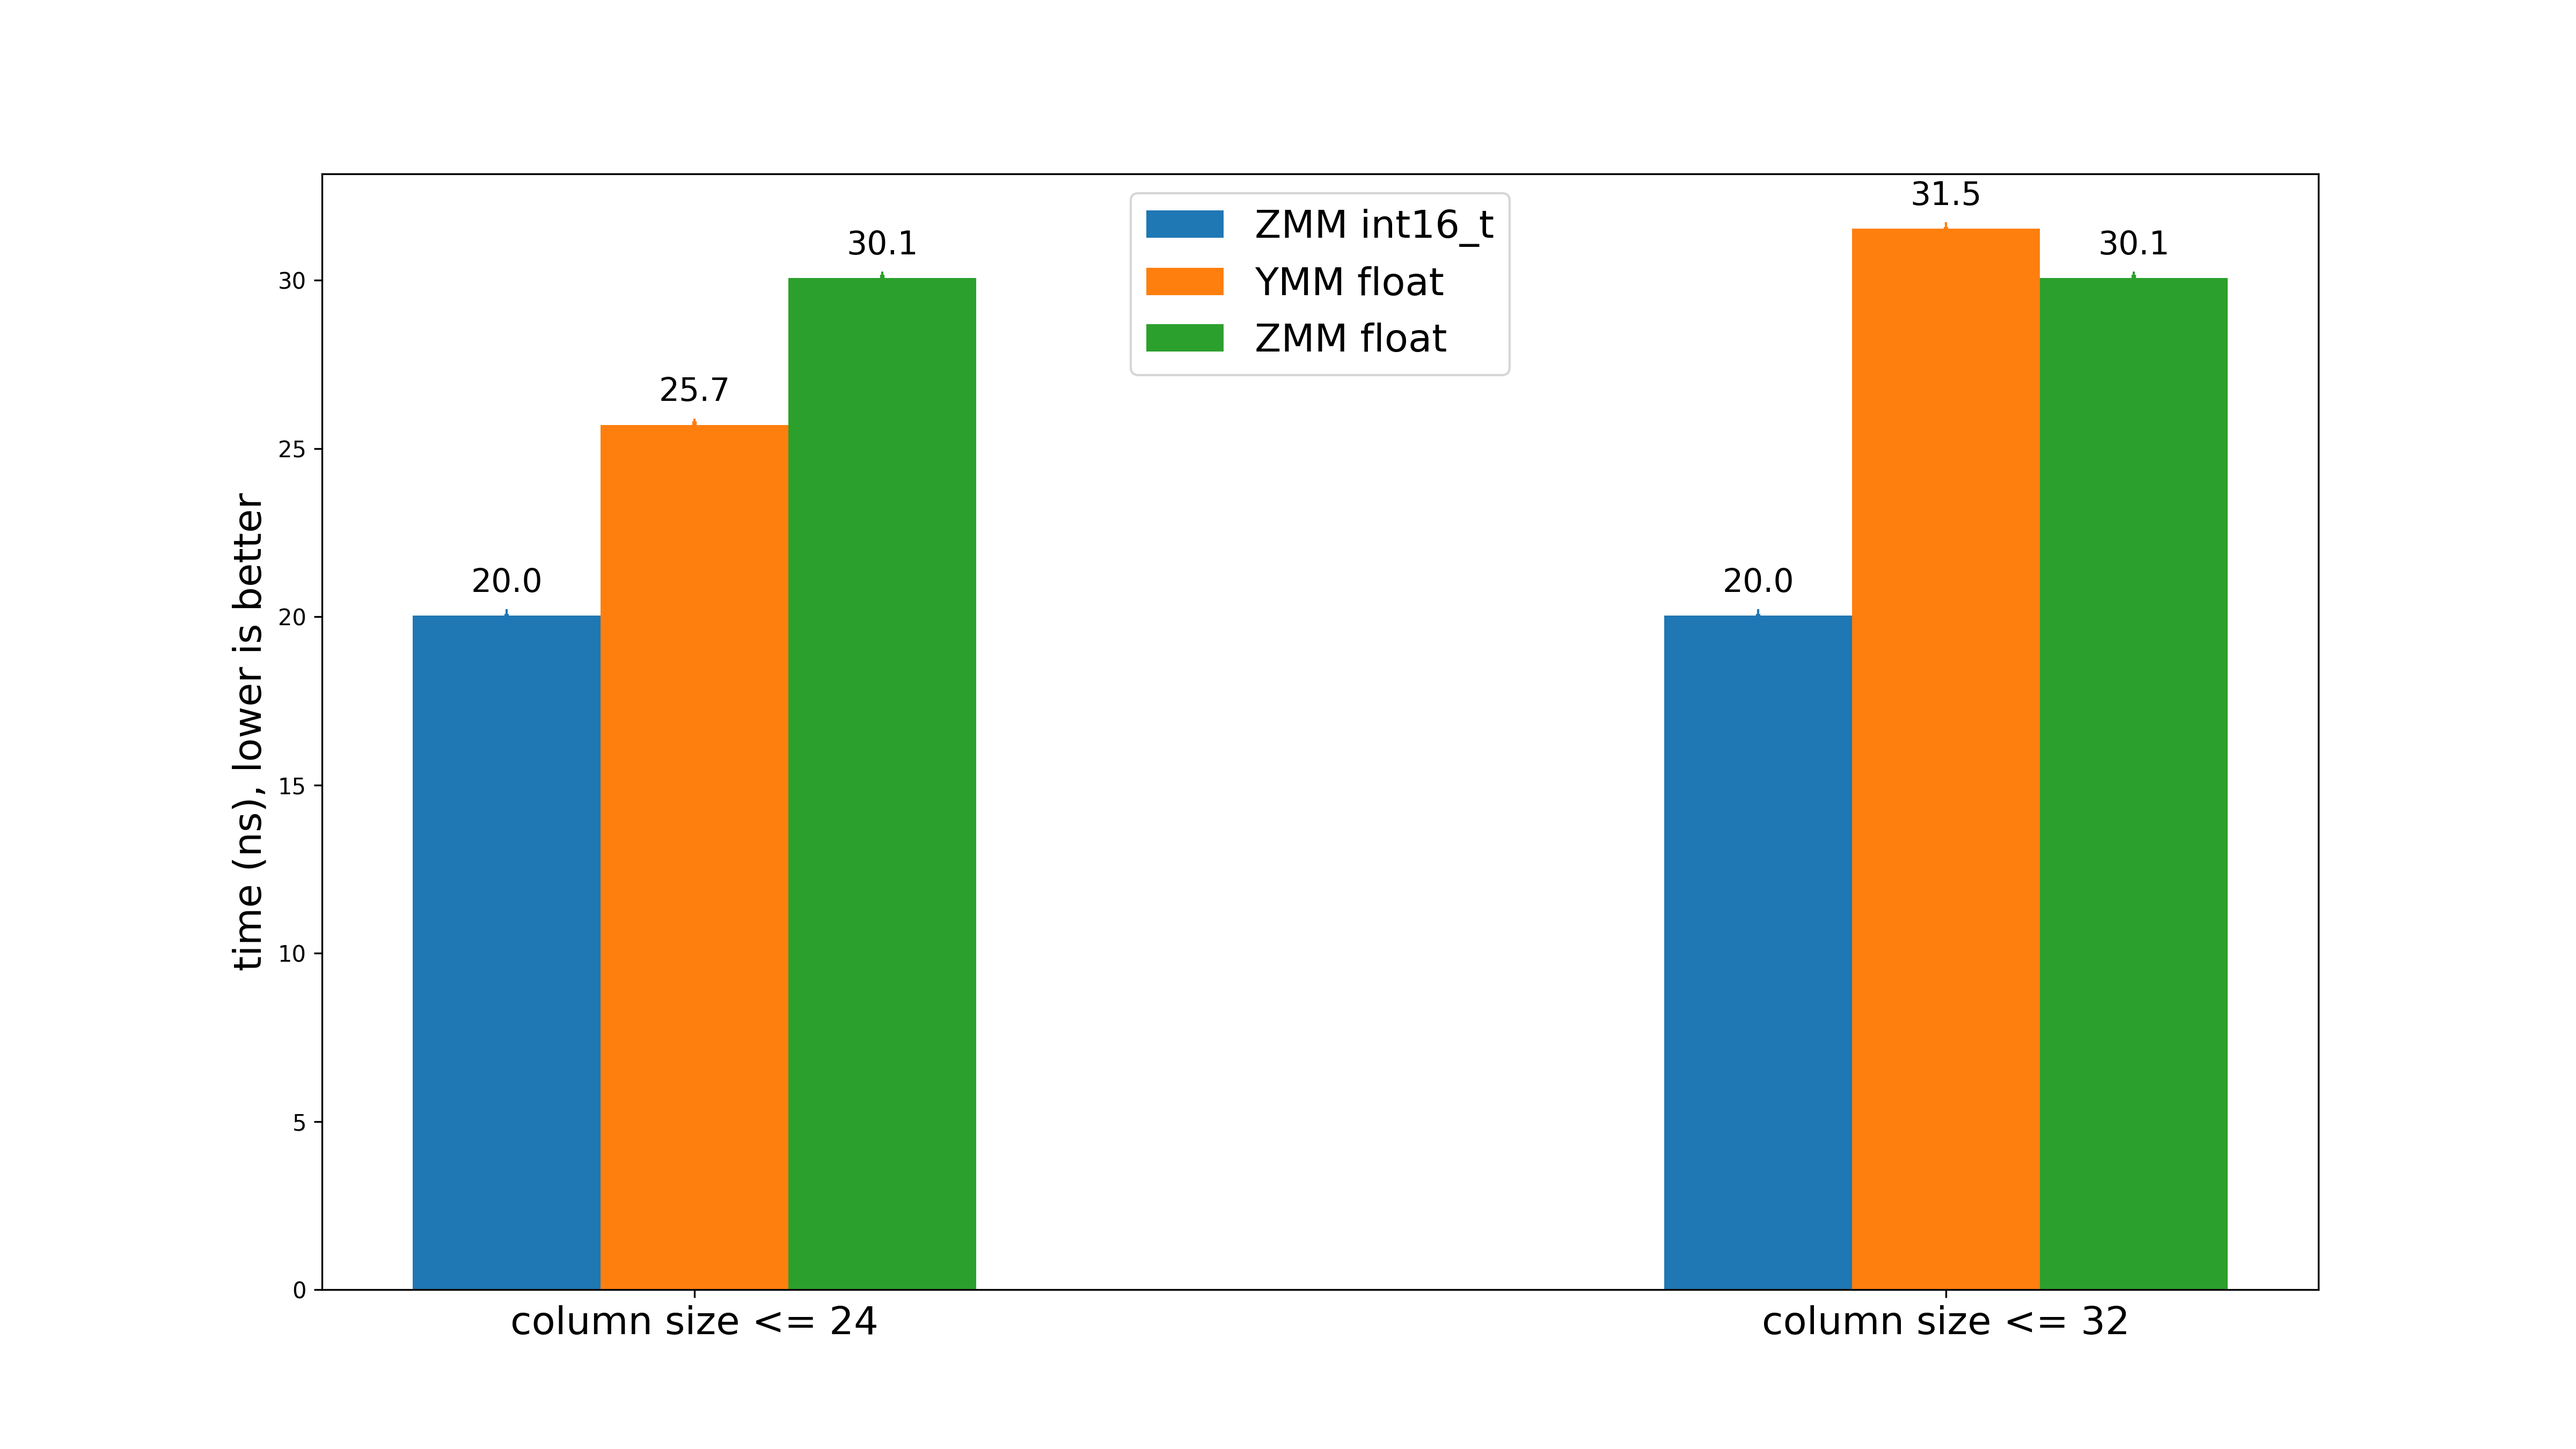
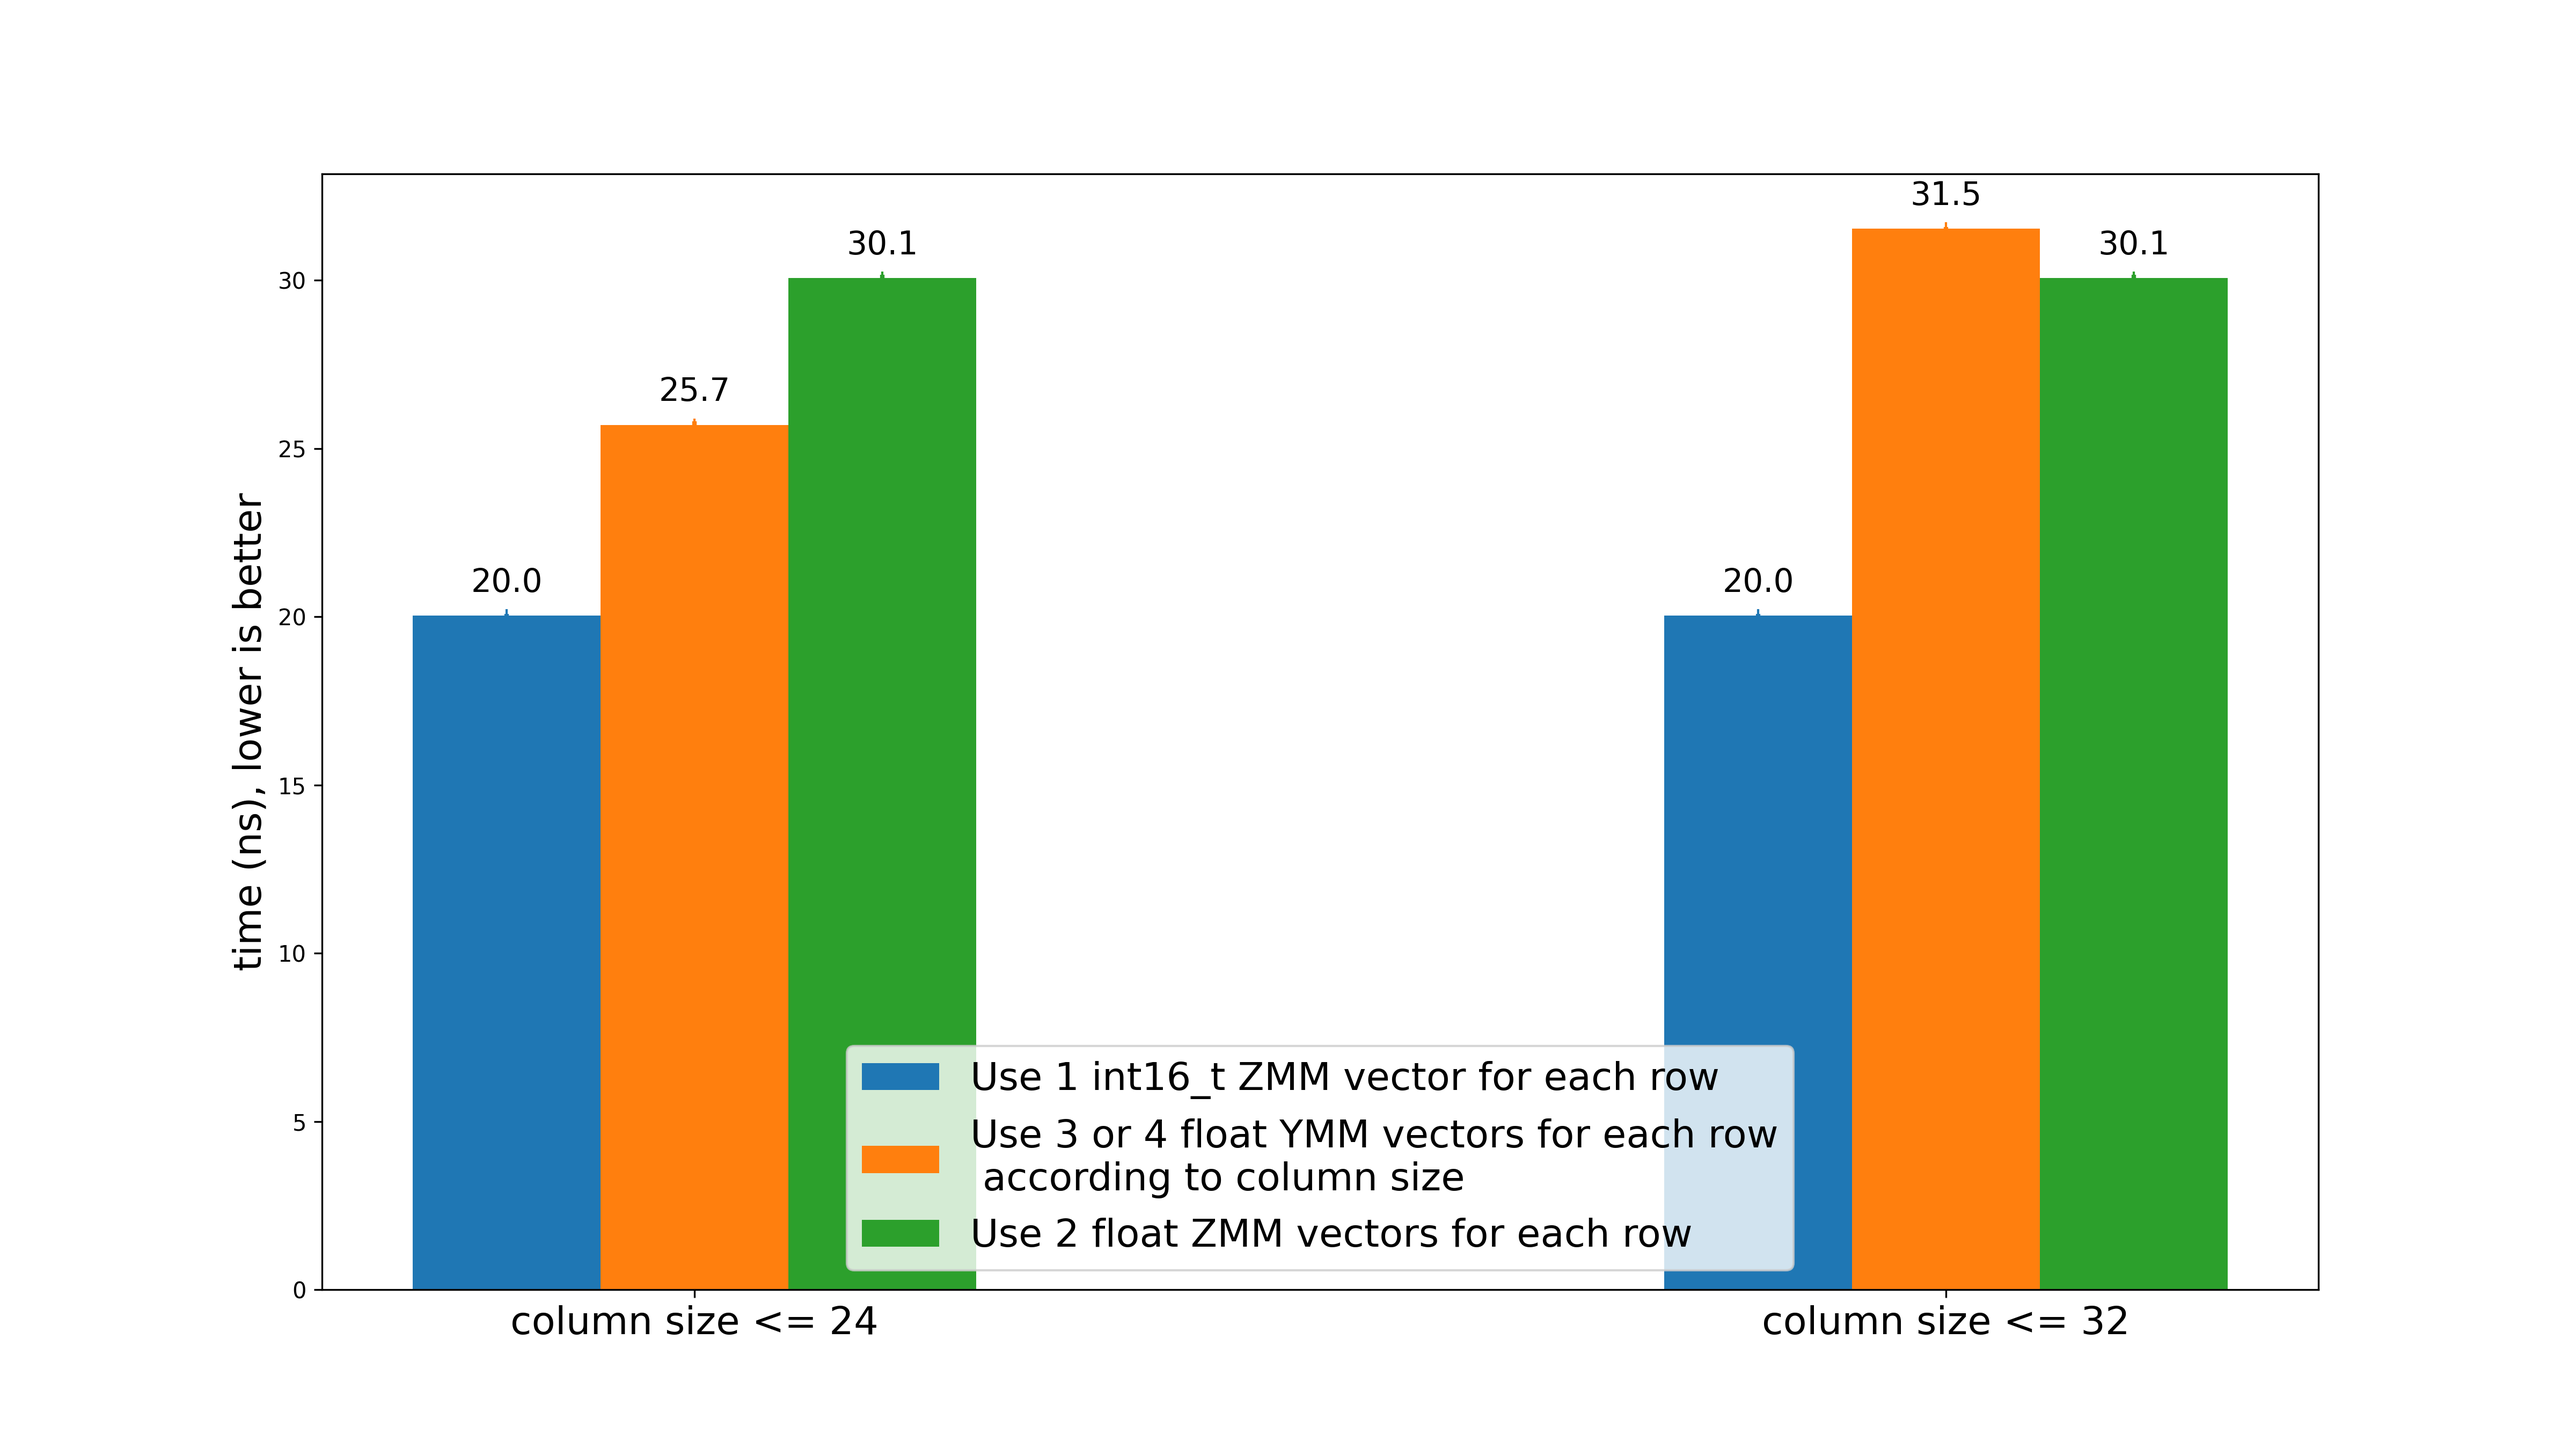
better legend

Changed region(s): [[0.3125, 0.7156, 0.7188, 0.9022], [0.4375, 0.1244, 0.5625, 0.2489]]

diff --git a/scripts/specialize-i16-f32.py b/scripts/specialize-i16-f32.py
@@ -22,7 +22,10 @@ xlabel = ['column size <= 24',
            ]
 
 
-legends = [ "ZMM int16_t", "YMM float",   "ZMM float",]
+legends = [ "Use 1 int16_t ZMM vector for each row",
+             "Use 3 or 4 float YMM vectors for each row\n according to column size", 
+             "Use 2 float ZMM vectors for each row",]
+# legends = [ "ZMM int16_t", "YMM float",   "ZMM float",]
 # legends = [ "XMM/float",  "XMM/double",  "XMM/int16_t",  "YMM/float",  "YMM/double",  "YMM/int16_t",  "ZMM/float",   "ZMM/double",   "ZMM/int16_t",  ]
 
 xss = []
@@ -116,7 +119,7 @@ for rect, label in zip(rects, labels):
     )
 
 # color_iter = iter(colors)
-ax.legend(labels=legends, fontsize=size, loc="upper center")
+ax.legend(labels=legends, fontsize=size, loc="lower center")
 # ax.set_ylim(ymin=0,ymax=80)
 for (xs,ys,errs) in zip(xss,yss,errss):
     print('=================')
